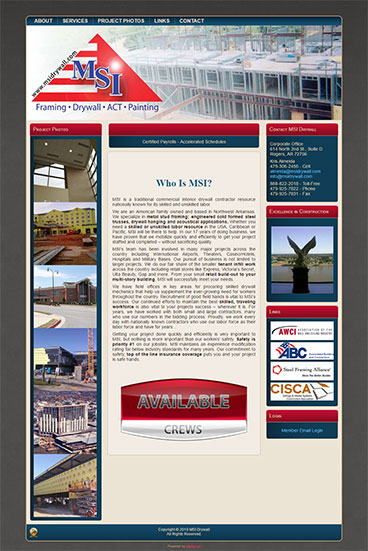
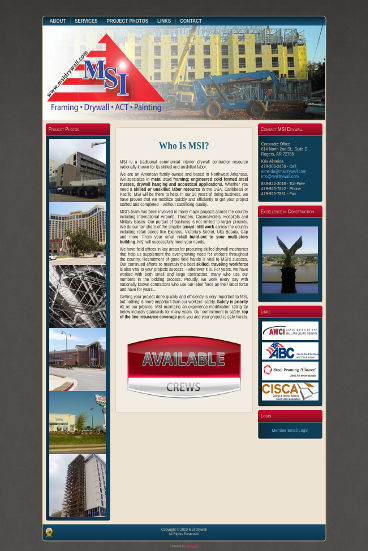
colors

diff --git a/css/main.min.css b/css/main.min.css
@@ -1,4 +1,4 @@
 /*! normalize.css v3.0.3 | MIT License | github.com/necolas/normalize.css */html{font-family:sans-serif;-ms-text-size-adjust:100%;-webkit-text-size-adjust:100%}body{margin:0}article,aside,details,figcaption,figure,footer,header,hgroup,main,menu,nav,section,summary{display:block}audio,canvas,progress,video{display:inline-block;vertical-align:baseline}audio:not([controls]){display:none;height:0}[hidden],template{display:none}a{background-color:transparent}a:active,a:hover{outline:0}abbr[title]{border-bottom:1px dotted}b,strong{font-weight:700}dfn{font-style:italic}h1{font-size:2em;margin:.67em 0}mark{background:#ff0;color:#000}small{font-size:80%}sub,sup{font-size:75%;line-height:0;position:relative;vertical-align:baseline}sup{top:-.5em}sub{bottom:-.25em}img{border:0}svg:not(:root){overflow:hidden}figure{margin:1em 40px}hr{box-sizing:content-box;height:0}pre{overflow:auto}code,kbd,pre,samp{font-family:monospace,monospace;font-size:1em}button,input,optgroup,select,textarea{color:inherit;font:inherit;margin:0}button{overflow:visible}button,select{text-transform:none}button,html input[type=button],input[type=reset],input[type=submit]{-webkit-appearance:button;cursor:pointer}button[disabled],html input[disabled]{cursor:default}button::-moz-focus-inner,input::-moz-focus-inner{border:0;padding:0}input{line-height:normal}input[type=checkbox],input[type=radio]{box-sizing:border-box;padding:0}input[type=number]::-webkit-inner-spin-button,input[type=number]::-webkit-outer-spin-button{height:auto}input[type=search]{-webkit-appearance:textfield;box-sizing:content-box}input[type=search]::-webkit-search-cancel-button,input[type=search]::-webkit-search-decoration{-webkit-appearance:none}fieldset{border:1px solid silver;margin:0 2px;padding:.35em .625em .75em}legend{border:0;padding:0}textarea{overflow:auto}optgroup{font-weight:700}table{border-collapse:collapse;border-spacing:0}td,th{padding:0}html,body,div,span,object,iframe,h1,h2,h3,h4,h5,h6,p,blockquote,pre,abbr,address,cite,code,del,dfn,em,img,ins,kbd,q,samp,small,strong,sub,sup,var,b,i,dl,dt,dd,ol,ul,li,fieldset,form,label,legend,table,caption,tbody,tfoot,thead,tr,th,td,article,aside,canvas,details,figcaption,figure,footer,header,hgroup,menu,nav,section,summary,time,mark,audio,video{margin:0;padding:0;border:0;outline:0;font-size:100%;vertical-align:baseline;background:transparent}ul{list-style:none}a{margin:0;padding:0;font-size:100%;vertical-align:baseline;background:transparent;color:inherit;text-decoration:none}/*!
  *  Font Awesome 4.7.0 by @davegandy - http://fontawesome.io - @fontawesome
  *  License - http://fontawesome.io/license (Font: SIL OFL 1.1, CSS: MIT License)
- */@font-face{font-family:FontAwesome;src:url(../fonts/fontawesome-webfont.eot?v=4.7.0);src:url(../fonts/fontawesome-webfont.eot?#iefix&v=4.7.0) format("embedded-opentype"),url(../fonts/fontawesome-webfont.woff2?v=4.7.0) format("woff2"),url(../fonts/fontawesome-webfont.woff?v=4.7.0) format("woff"),url(../fonts/fontawesome-webfont.ttf?v=4.7.0) format("truetype"),url(../fonts/fontawesome-webfont.svg?v=4.7.0#fontawesomeregular) format("svg")}.fa{display:inline-block;font:normal normal normal 14px/1 FontAwesome;font-size:inherit;text-rendering:auto;-webkit-font-smoothing:antialiased;-moz-osx-font-smoothing:grayscale}.fa-linkedin-square:before{content:"\f08c"}.fa-github-square:before{content:"\f092"}.fa-twitter-square:before{content:"\f081"}.fa-download:before{content:"\f019"}@-webkit-keyframes hvr-icon-hang{0%{-webkit-transform:translateY(6px);transform:translateY(6px)}50%{-webkit-transform:translateY(2px);transform:translateY(2px)}100%{-webkit-transform:translateY(6px);transform:translateY(6px)}}@keyframes hvr-icon-hang{0%{-webkit-transform:translateY(6px);transform:translateY(6px)}50%{-webkit-transform:translateY(2px);transform:translateY(2px)}100%{-webkit-transform:translateY(6px);transform:translateY(6px)}}@-webkit-keyframes hvr-icon-hang-sink{100%{-webkit-transform:translateY(6px);transform:translateY(6px)}}@keyframes hvr-icon-hang-sink{100%{-webkit-transform:translateY(6px);transform:translateY(6px)}}.hvr-icon-hang{display:inline-block;vertical-align:middle;-webkit-transform:perspective(1px) translateZ(0);transform:perspective(1px) translateZ(0);box-shadow:0 0 1px transparent;position:relative;padding-right:2.2em;transition-duration:.7s}.hvr-icon-hang:before{content:"\f019";position:absolute;right:1em;padding:0 1px;font-family:FontAwesome;-webkit-transform:translateZ(0);transform:translateZ(0)}.hvr-icon-hang:hover:before,.hvr-icon-hang:focus:before,.hvr-icon-hang:active:before{-webkit-animation-name:hvr-icon-hang-sink,hvr-icon-hang;animation-name:hvr-icon-hang-sink,hvr-icon-hang;-webkit-animation-duration:.7s,1.5s;animation-duration:.7s,1.5s;-webkit-animation-delay:0s,.7s;animation-delay:0s,.7s;-webkit-animation-timing-function:ease-out,ease-in-out;animation-timing-function:ease-out,ease-in-out;-webkit-animation-iteration-count:1,infinite;animation-iteration-count:1,infinite;-webkit-animation-fill-mode:forwards;animation-fill-mode:forwards;-webkit-animation-direction:normal,alternate;animation-direction:normal,alternate}/*! HTML5 Boilerplate v5.3.0 | MIT License | https://html5boilerplate.com/ */html{color:#d8cfcf;font-size:1em;line-height:1.4;background:#100c0c}::-moz-selection{background:#b3d4fc;text-shadow:none}::selection{background:#b3d4fc;text-shadow:none}hr{display:block;height:1px;border:0;border-top:1px solid #ccc;margin:1em 0;padding:0}audio,canvas,iframe,img,svg,video{vertical-align:middle}fieldset{border:0;margin:0;padding:0}textarea{resize:vertical}.browserupgrade{margin:.2em 0;background:#ccc;color:#000;padding:.2em 0}.desktop-only{display:none}strong{font-weight:700;color:#dcc66d}hr{margin:1.5em}.flex-container{display:-webkit-flex;display:-ms-flexbox;display:flex}.navbar{width:100%;background:#0c0c0c;position:fixed;font-weight:700}.navbar__header{display:-webkit-flex;display:-ms-flexbox;display:flex;-webkit-justify-content:space-between;-ms-flex-pack:justify;justify-content:space-between}.navbar__logo{padding:10px}.navbar__menu{display:-webkit-flex;display:-ms-flexbox;display:flex;-webkit-justify-content:space-around;-ms-flex-pack:distribute;justify-content:space-around;-webkit-flex-grow:1;-ms-flex-positive:1;flex-grow:1;-webkit-flex-direction:column;-ms-flex-direction:column;flex-direction:column;text-align:center;padding-bottom:10px}.navbar__item{padding:10px}.navbar__toggle{padding:10px}.desktop-navbar{background:#0c0c0c;display:-webkit-flex;display:-ms-flexbox;display:flex;-webkit-align-items:center;-ms-flex-align:center;align-items:center;padding:7px 20px;position:fixed;left:0;right:0}.desktop-navbar__header{display:-webkit-flex;display:-ms-flexbox;display:flex;-webkit-flex-direction:column;-ms-flex-direction:column;flex-direction:column}.desktop-navbar__logo{font-weight:700;font-size:18px}.desktop-navbar__tag-line{padding-left:5px}.desktop-navbar__menu{display:-webkit-flex;display:-ms-flexbox;display:flex;-webkit-justify-content:flex-end;-ms-flex-pack:end;justify-content:flex-end;-webkit-flex-grow:1;-ms-flex-positive:1;flex-grow:1}.desktop-navbar__item{margin-left:6vw;font-weight:700;font-size:15px}.desktop-navbar a:hover{text-shadow:.5px 0 0 #aff}.welcome{background-image:url(../img/mobile-bsd-bg.jpg);height:100vh;background-position:right;background-repeat:no-repeat;background-size:cover;text-align:center;color:#eae6e6}@media only screen and (min-width:900px){.welcome{background-image:url(../img/rocket-man.jpg)}}.welcome__wrapper{padding-top:8vh;-webkit-animation-delay:.2s;animation-delay:.2s;-webkit-animation-duration:2s;animation-duration:2s}.welcome__heading{font-size:9.7vw;line-height:1}@media only screen and (min-width:900px){.welcome__heading{font-size:6.8vw}}.welcome__sub-heading{font-size:9vw}@media only screen and (min-width:900px){.welcome__sub-heading{font-size:6vw}}.welcome__ghost-button{display:inline-block;border:2px solid #eae6e6;border-radius:5px;padding:2px;margin:5px 2px;width:35vw;font-size:4vw}@media only screen and (min-width:600px){.welcome__ghost-button{border:3px solid #eae6e6;border-radius:7px;padding:4px;margin:7px 4px}}@media only screen and (min-width:900px){.welcome__ghost-button{border:.3vw solid #eae6e6;border-radius:.5vw;padding:4px 10px;margin:5px 2px;font-size:1.6vw;font-weight:700;width:unset;transition:all .2s ease-out}.welcome__ghost-button:hover{background-color:rgba(208,208,187,.03);transition:all .1s ease-in;-webkit-transform:scale(1.02);-ms-transform:scale(1.02);transform:scale(1.02);-webkit-animation-delay:0s;animation-delay:0s}}.welcome__social-icons a{font-size:8vw;margin:0 3px}@media only screen and (min-width:900px){.welcome__social-icons a{font-size:4vw;margin:0 1vw;transition:all .2s ease-out}.welcome__social-icons a:hover{transition:all .1s ease-in}}.welcome .fa:hover{-webkit-transform:scale(1.04);-ms-transform:scale(1.04);transform:scale(1.04)}@media only screen and (min-width:900px){.what-i-do{display:-webkit-flex;display:-ms-flexbox;display:flex}}.responsive{background:#16171c;text-align:center;-webkit-flex:1 1 0;-ms-flex:1 1 0;flex:1 1 0;margin:15px;border-radius:5px}.responsive__wrapper{padding:12vw 15px;margin:0 auto}@media only screen and (min-width:600px){.responsive__wrapper{max-width:66vw;font-size:2.3vw}}@media only screen and (min-width:900px){.responsive__wrapper{padding:6vw 40px;font-size:1.1em}.responsive__wrapper p{text-align:justify}}.responsive__heading{font-size:9vw;padding-bottom:5px}@media only screen and (min-width:600px){.responsive__heading{font-size:5vw}}@media only screen and (min-width:900px){.responsive__heading{font-size:2.5vw}}.responsive__image-box{margin:0 auto;max-width:75vh}.responsive__image-box img{width:100%}.development{background-color:#292929;text-align:center;-webkit-flex:1 1 0;-ms-flex:1 1 0;flex:1 1 0;margin:15px;border-radius:5px}.development__wrapper{margin:0 auto;padding:12vw 15px}@media only screen and (min-width:600px){.development__wrapper{max-width:66vw;font-size:2.3vw}}@media only screen and (min-width:900px){.development__wrapper{padding:6vw 40px;font-size:1.1em}.development__wrapper p{text-align:justify}}.development__heading{font-size:9vw;padding-bottom:5px}@media only screen and (min-width:600px){.development__heading{font-size:5vw}}@media only screen and (min-width:900px){.development__heading{font-size:2.5vw}}.development__image-box{margin:0 auto;max-width:75vh;padding-bottom:20px}.development__image-box img{width:74%}.code{background-color:#131111;text-align:center;-webkit-flex:1 1 0;-ms-flex:1 1 0;flex:1 1 0;margin:15px;border-radius:5px}.code__wrapper{margin:0 auto;padding:12vw 15px}@media only screen and (min-width:600px){.code__wrapper{max-width:66vw}}@media only screen and (min-width:900px){.code__wrapper{padding:6vw 40px;font-size:1.1em}.code__wrapper p{text-align:justify}}.code__heading{font-size:9vw;padding-bottom:5px}@media only screen and (min-width:600px){.code__heading{font-size:5vw}}@media only screen and (min-width:900px){.code__heading{font-size:2.5vw}}.code__image-box{margin:0 auto;max-width:75vh}.code__image-box img{width:100%}@media only screen and (min-width:900px){.code__image-box img{width:108%}}.code__github-link{font-weight:700}.code__github-link:visited{color:#fff}.code__github-link:hover{text-shadow:.5px 0 0 #fff}.work{text-align:center;background:#1b0e0e;padding-bottom:40px}.work__wrapper{padding:1vh}@media only screen and (min-width:900px){.work__wrapper{padding-top:2vw}}.work__heading{padding:50px 0 20px;text-align:center;font-size:9vw}@media only screen and (min-width:600px){.work__heading{font-size:5vw}}@media only screen and (min-width:900px){.work__heading{padding:50px 0 0;font-size:3vw}}.work__image-box{font-size:.8em;padding:5px;border-radius:5px;background:#292929;text-align:center;margin:0 auto;width:43vh}@media only screen and (min-width:900px){.work__image-box{max-width:25vw;display:inline-block;margin:3vw}}.work__image-box .caption{padding:6px 4px 2px}.work__image-box img{width:100%}.work__large-image-box{width:60vw;padding:20px}.work__large-image-box img{max-height:82vh;padding:0 2vmin}@media only screen and (min-height:620px){.work__large-image-box img{max-height:65vh;padding:0 1vw}}@media only screen and (min-height:790px){.work__large-image-box img{max-height:55vh;padding:0 1vw}}@media only screen and (min-height:965px){.work__large-image-box img{max-height:50vh;padding:0 1vw}}@media only screen and (min-width:1125px){.work__large-image-box img{padding:0 2vw}}@media only screen and (min-width:1200px){.work__large-image-box img{padding:0 2.8vw}}.work__large-text-box{width:40vw;padding:45px 4vw 0 0;text-align:justify}.work__large-text-box h4{text-align:center;padding-bottom:5px}.work__large-text-box p{padding-bottom:40px;font-size:1.1em}.about{background-image:url(../img/skyfield.jpg);background-size:cover;background-position:bottom left;font-size:1.1em}@media only screen and (min-width:900px){.about{background-image:url(../img/skyfield-desktop.jpg)}}.about__wrapper{padding:8vh 20px}@media only screen and (min-width:900px){.about__wrapper{padding:9vw 0 6vw 75px;display:-webkit-flex;display:-ms-flexbox;display:flex}}.about__heading{text-align:center;color:#dcc66d;font-size:9vw}@media only screen and (min-width:600px){.about__heading{font-size:5vw;padding-bottom:5px}}@media only screen and (min-width:900px){.about__heading{font-size:3vw}}.about__biography--left{text-align:justify;max-width:500px;margin:0 auto}@media only screen and (min-width:900px){.about__biography--left{width:50vw}}.about__skills--right{width:50vw;text-align:center}.about__skills--right h2{padding-bottom:5px;font-size:3vw;color:#dcc66d}.about__skills--right ul{padding-bottom:20px}.about__skills--right li{width:40%;display:inline-block}.about__skills--right .button,.about__skills--right .button:visited{display:inline-block;background-color:#0f6f16;padding:12px 22px;border-radius:6px;box-shadow:0 .5px 3px rgba(0,0,0,.4);margin-top:20px;text-align:left;width:207px}.about__skills--right .button:hover,.about__skills--right .button:visited:hover{background:#0e7b17;-webkit-transform:scale(1.007);-ms-transform:scale(1.007);transform:scale(1.007)}.about__skills--right .button:active,.about__skills--right .button:visited:active{box-shadow:0 px px 0 rgba(0,0,0,.24),0 0 0 0 transparent;-webkit-transform:scale(.995);-ms-transform:scale(.995);transform:scale(.995);background-color:#0f6f16}.about__button{background:#0f6f16;display:inline-block;padding:6px 30px;margin-top:20px;color:#fff;text-decoration:none;border-radius:6px;position:relative;cursor:pointer;font-size:1.2em;width:140px}@media only screen and (min-width:900px){.mobile-only{display:none}}@media only screen and (min-width:900px){.desktop-only{display:initial}}.animated{-webkit-animation-duration:1s;animation-duration:1s;-webkit-animation-fill-mode:both;animation-fill-mode:both}@-webkit-keyframes zoomIn{from{opacity:0;-webkit-transform:scale3d(.3,.3,.3);transform:scale3d(.3,.3,.3)}50%{opacity:1}}@keyframes zoomIn{from{opacity:0;-webkit-transform:scale3d(.3,.3,.3);transform:scale3d(.3,.3,.3)}50%{opacity:1}}.zoomIn{-webkit-animation-name:zoomIn;animation-name:zoomIn}@media print{*,*:before,*:after,*:first-letter,*:first-line{background:transparent!important;color:#000!important;box-shadow:none!important;text-shadow:none!important}a,a:visited{text-decoration:underline}a[href]:after{content:" (" attr(href) ")"}abbr[title]:after{content:" (" attr(title) ")"}a[href^="#"]:after,a[href^="javascript:"]:after{content:""}pre,blockquote{border:1px solid #999;page-break-inside:avoid}thead{display:table-header-group}tr,img{page-break-inside:avoid}img{max-width:100%!important}p,h2,h3{orphans:3;widows:3}h2,h3{page-break-after:avoid}}
+ */@font-face{font-family:FontAwesome;src:url(../fonts/fontawesome-webfont.eot?v=4.7.0);src:url(../fonts/fontawesome-webfont.eot?#iefix&v=4.7.0) format("embedded-opentype"),url(../fonts/fontawesome-webfont.woff2?v=4.7.0) format("woff2"),url(../fonts/fontawesome-webfont.woff?v=4.7.0) format("woff"),url(../fonts/fontawesome-webfont.ttf?v=4.7.0) format("truetype"),url(../fonts/fontawesome-webfont.svg?v=4.7.0#fontawesomeregular) format("svg")}.fa{display:inline-block;font:normal normal normal 14px/1 FontAwesome;font-size:inherit;text-rendering:auto;-webkit-font-smoothing:antialiased;-moz-osx-font-smoothing:grayscale}.fa-linkedin-square:before{content:"\f08c"}.fa-github-square:before{content:"\f092"}.fa-twitter-square:before{content:"\f081"}.fa-download:before{content:"\f019"}@-webkit-keyframes hvr-icon-hang{0%{-webkit-transform:translateY(6px);transform:translateY(6px)}50%{-webkit-transform:translateY(2px);transform:translateY(2px)}100%{-webkit-transform:translateY(6px);transform:translateY(6px)}}@keyframes hvr-icon-hang{0%{-webkit-transform:translateY(6px);transform:translateY(6px)}50%{-webkit-transform:translateY(2px);transform:translateY(2px)}100%{-webkit-transform:translateY(6px);transform:translateY(6px)}}@-webkit-keyframes hvr-icon-hang-sink{100%{-webkit-transform:translateY(6px);transform:translateY(6px)}}@keyframes hvr-icon-hang-sink{100%{-webkit-transform:translateY(6px);transform:translateY(6px)}}.hvr-icon-hang{display:inline-block;vertical-align:middle;-webkit-transform:perspective(1px) translateZ(0);transform:perspective(1px) translateZ(0);box-shadow:0 0 1px transparent;position:relative;padding-right:2.2em;transition-duration:.7s}.hvr-icon-hang:before{content:"\f019";position:absolute;right:1em;padding:0 1px;font-family:FontAwesome;-webkit-transform:translateZ(0);transform:translateZ(0)}.hvr-icon-hang:hover:before,.hvr-icon-hang:focus:before,.hvr-icon-hang:active:before{-webkit-animation-name:hvr-icon-hang-sink,hvr-icon-hang;animation-name:hvr-icon-hang-sink,hvr-icon-hang;-webkit-animation-duration:.7s,1.5s;animation-duration:.7s,1.5s;-webkit-animation-delay:0s,.7s;animation-delay:0s,.7s;-webkit-animation-timing-function:ease-out,ease-in-out;animation-timing-function:ease-out,ease-in-out;-webkit-animation-iteration-count:1,infinite;animation-iteration-count:1,infinite;-webkit-animation-fill-mode:forwards;animation-fill-mode:forwards;-webkit-animation-direction:normal,alternate;animation-direction:normal,alternate}/*! HTML5 Boilerplate v5.3.0 | MIT License | https://html5boilerplate.com/ */html{color:#d8cfcf;font-size:1em;line-height:1.4;background:#100c0c}::-moz-selection{background:#b3d4fc;text-shadow:none}::selection{background:#b3d4fc;text-shadow:none}hr{display:block;height:1px;border:0;border-top:1px solid #ccc;margin:1em 0;padding:0}audio,canvas,iframe,img,svg,video{vertical-align:middle}fieldset{border:0;margin:0;padding:0}textarea{resize:vertical}.browserupgrade{margin:.2em 0;background:#ccc;color:#000;padding:.2em 0}.desktop-only{display:none}strong{font-weight:700;color:#dcc66d}hr{margin:1.5em}.flex-container{display:-webkit-flex;display:-ms-flexbox;display:flex}.navbar{width:100%;background:#0c0c0c;position:fixed;font-weight:700}.navbar__header{display:-webkit-flex;display:-ms-flexbox;display:flex;-webkit-justify-content:space-between;-ms-flex-pack:justify;justify-content:space-between}.navbar__logo{padding:10px}.navbar__menu{display:-webkit-flex;display:-ms-flexbox;display:flex;-webkit-justify-content:space-around;-ms-flex-pack:distribute;justify-content:space-around;-webkit-flex-grow:1;-ms-flex-positive:1;flex-grow:1;-webkit-flex-direction:column;-ms-flex-direction:column;flex-direction:column;text-align:center;padding-bottom:10px}.navbar__item{padding:10px}.navbar__toggle{padding:10px}.desktop-navbar{background:#0c0c0c;display:-webkit-flex;display:-ms-flexbox;display:flex;-webkit-align-items:center;-ms-flex-align:center;align-items:center;padding:7px 20px;position:fixed;left:0;right:0}.desktop-navbar__header{display:-webkit-flex;display:-ms-flexbox;display:flex;-webkit-flex-direction:column;-ms-flex-direction:column;flex-direction:column}.desktop-navbar__logo{font-weight:700;font-size:18px}.desktop-navbar__tag-line{padding-left:5px}.desktop-navbar__menu{display:-webkit-flex;display:-ms-flexbox;display:flex;-webkit-justify-content:flex-end;-ms-flex-pack:end;justify-content:flex-end;-webkit-flex-grow:1;-ms-flex-positive:1;flex-grow:1}.desktop-navbar__item{margin-left:6vw;font-weight:700;font-size:15px}.desktop-navbar a:hover{text-shadow:.5px 0 0 #aff}.welcome{background-image:url(../img/rocket-man.jpg);color:#eae6e6;height:100vh;background-position:left;background-repeat:no-repeat;text-align:center;background-size:cover}@media only screen and (min-width:900px){.welcome{background-image:url(../img/rocket-man.jpg);background-position:right}}.welcome__wrapper{padding-top:8vh;-webkit-animation-delay:.2s;animation-delay:.2s;-webkit-animation-duration:2s;animation-duration:2s}.welcome__heading{font-size:9.7vw;line-height:1}@media only screen and (min-width:900px){.welcome__heading{font-size:6.8vw}}.welcome__sub-heading{font-size:9vw}@media only screen and (min-width:900px){.welcome__sub-heading{font-size:6vw}}.welcome__ghost-button{display:inline-block;border:2px solid #eae6e6;border-radius:5px;padding:2px;margin:5px 2px;width:35vw;font-size:4vw}@media only screen and (min-width:600px){.welcome__ghost-button{border:3px solid #eae6e6;border-radius:7px;padding:4px;margin:7px 4px}}@media only screen and (min-width:900px){.welcome__ghost-button{border:.3vw solid #eae6e6;border-radius:.5vw;padding:4px 10px;margin:5px 2px;font-size:1.6vw;font-weight:700;width:unset;transition:all .2s ease-out}.welcome__ghost-button:hover{background-color:rgba(208,208,187,.03);transition:all .1s ease-in;-webkit-transform:scale(1.02);-ms-transform:scale(1.02);transform:scale(1.02);-webkit-animation-delay:0s;animation-delay:0s}}.welcome__social-icons a{font-size:8vw;margin:0 3px}@media only screen and (min-width:900px){.welcome__social-icons a{font-size:4vw;margin:0 1vw;transition:all .2s ease-out}.welcome__social-icons a:hover{transition:all .1s ease-in}}.welcome .fa:hover{-webkit-transform:scale(1.04);-ms-transform:scale(1.04);transform:scale(1.04)}@media only screen and (min-width:900px){.what-i-do{display:-webkit-flex;display:-ms-flexbox;display:flex}}.responsive{background:#16171c;text-align:center;-webkit-flex:1 1 0;-ms-flex:1 1 0;flex:1 1 0;margin:15px;border-radius:5px}.responsive__wrapper{padding:12vw 15px;margin:0 auto}@media only screen and (min-width:600px){.responsive__wrapper{max-width:66vw;font-size:2.3vw}}@media only screen and (min-width:900px){.responsive__wrapper{padding:6vw 40px;font-size:1.1em}.responsive__wrapper p{text-align:justify}}.responsive__heading{font-size:9vw;padding-bottom:5px}@media only screen and (min-width:600px){.responsive__heading{font-size:5vw}}@media only screen and (min-width:900px){.responsive__heading{font-size:2.5vw}}.responsive__image-box{margin:0 auto;max-width:75vh}.responsive__image-box img{width:100%}.development{background-color:#292929;text-align:center;-webkit-flex:1 1 0;-ms-flex:1 1 0;flex:1 1 0;margin:15px;border-radius:5px}.development__wrapper{margin:0 auto;padding:12vw 15px}@media only screen and (min-width:600px){.development__wrapper{max-width:66vw;font-size:2.3vw}}@media only screen and (min-width:900px){.development__wrapper{padding:6vw 40px;font-size:1.1em}.development__wrapper p{text-align:justify}}.development__heading{font-size:9vw;padding-bottom:5px}@media only screen and (min-width:600px){.development__heading{font-size:5vw}}@media only screen and (min-width:900px){.development__heading{font-size:2.5vw}}.development__image-box{margin:0 auto;max-width:75vh;padding-bottom:20px}.development__image-box img{width:74%}.code{background-color:#131111;text-align:center;-webkit-flex:1 1 0;-ms-flex:1 1 0;flex:1 1 0;margin:15px;border-radius:5px}.code__wrapper{margin:0 auto;padding:12vw 15px}@media only screen and (min-width:600px){.code__wrapper{max-width:66vw}}@media only screen and (min-width:900px){.code__wrapper{padding:6vw 40px;font-size:1.1em}.code__wrapper p{text-align:justify}}.code__heading{font-size:9vw;padding-bottom:5px}@media only screen and (min-width:600px){.code__heading{font-size:5vw}}@media only screen and (min-width:900px){.code__heading{font-size:2.5vw}}.code__image-box{margin:0 auto;max-width:75vh}.code__image-box img{width:100%}@media only screen and (min-width:900px){.code__image-box img{width:108%}}.code__github-link{font-weight:700}.code__github-link:visited{color:#fff}.code__github-link:hover{text-shadow:.5px 0 0 #fff}.work{text-align:center;background:#1b0e0e;padding-bottom:40px}.work__wrapper{padding:1vh}@media only screen and (min-width:900px){.work__wrapper{padding-top:2vw}}.work__heading{padding:50px 0 20px;text-align:center;font-size:9vw}@media only screen and (min-width:600px){.work__heading{font-size:5vw}}@media only screen and (min-width:900px){.work__heading{padding:50px 0 0;font-size:3vw}}.work__image-box{font-size:.8em;padding:5px;border-radius:5px;background:#292929;text-align:center;margin:0 auto;width:43vh}@media only screen and (min-width:900px){.work__image-box{max-width:25vw;display:inline-block;margin:3vw}}.work__image-box .caption{padding:6px 4px 2px}.work__image-box img{width:100%}.work__large-image-box{width:60vw;padding:20px}.work__large-image-box img{max-height:82vh;padding:0 2vmin}@media only screen and (min-height:620px){.work__large-image-box img{max-height:65vh;padding:0 1vw}}@media only screen and (min-height:790px){.work__large-image-box img{max-height:55vh;padding:0 1vw}}@media only screen and (min-height:965px){.work__large-image-box img{max-height:50vh;padding:0 1vw}}@media only screen and (min-width:1125px){.work__large-image-box img{padding:0 2vw}}@media only screen and (min-width:1200px){.work__large-image-box img{padding:0 2.8vw}}.work__large-text-box{width:40vw;padding:45px 4vw 0 0;text-align:justify}.work__large-text-box h4{text-align:center;padding-bottom:5px}.work__large-text-box p{padding-bottom:40px;font-size:1.1em}.about{background-image:url(../img/skyfield.jpg);background-size:cover;background-position:bottom left;font-size:1.1em}@media only screen and (min-width:900px){.about{background-image:url(../img/skyfield-desktop.jpg)}}.about__wrapper{padding:8vh 20px}@media only screen and (min-width:900px){.about__wrapper{padding:9vw 0 6vw 75px;display:-webkit-flex;display:-ms-flexbox;display:flex}}.about__heading{text-align:center;color:#dcc66d;font-size:9vw}@media only screen and (min-width:600px){.about__heading{font-size:5vw;padding-bottom:5px}}@media only screen and (min-width:900px){.about__heading{font-size:3vw}}.about__biography--left{text-align:justify;max-width:500px;margin:0 auto}@media only screen and (min-width:900px){.about__biography--left{width:50vw}}.about__skills--right{width:50vw;text-align:center}.about__skills--right h2{padding-bottom:5px;font-size:3vw;color:#dcc66d}.about__skills--right ul{padding-bottom:20px}.about__skills--right li{width:40%;display:inline-block}.about__skills--right .button,.about__skills--right .button:visited{display:inline-block;background-color:#0f6f16;padding:12px 22px;border-radius:6px;box-shadow:0 .5px 3px rgba(0,0,0,.4);margin-top:20px;text-align:left;width:207px}.about__skills--right .button:hover,.about__skills--right .button:visited:hover{background:#0e7b17;-webkit-transform:scale(1.007);-ms-transform:scale(1.007);transform:scale(1.007)}.about__skills--right .button:active,.about__skills--right .button:visited:active{box-shadow:0 px px 0 rgba(0,0,0,.24),0 0 0 0 transparent;-webkit-transform:scale(.995);-ms-transform:scale(.995);transform:scale(.995);background-color:#0f6f16}.about__button{background:#0f6f16;display:inline-block;padding:6px 30px;margin-top:20px;color:#fff;text-decoration:none;border-radius:6px;position:relative;cursor:pointer;font-size:1.2em;width:140px}@media only screen and (min-width:900px){.mobile-only{display:none}}@media only screen and (min-width:900px){.desktop-only{display:initial}}.animated{-webkit-animation-duration:1s;animation-duration:1s;-webkit-animation-fill-mode:both;animation-fill-mode:both}@-webkit-keyframes zoomIn{from{opacity:0;-webkit-transform:scale3d(.3,.3,.3);transform:scale3d(.3,.3,.3)}50%{opacity:1}}@keyframes zoomIn{from{opacity:0;-webkit-transform:scale3d(.3,.3,.3);transform:scale3d(.3,.3,.3)}50%{opacity:1}}.zoomIn{-webkit-animation-name:zoomIn;animation-name:zoomIn}@media print{*,*:before,*:after,*:first-letter,*:first-line{background:transparent!important;color:#000!important;box-shadow:none!important;text-shadow:none!important}a,a:visited{text-decoration:underline}a[href]:after{content:" (" attr(href) ")"}abbr[title]:after{content:" (" attr(title) ")"}a[href^="#"]:after,a[href^="javascript:"]:after{content:""}pre,blockquote{border:1px solid #999;page-break-inside:avoid}thead{display:table-header-group}tr,img{page-break-inside:avoid}img{max-width:100%!important}p,h2,h3{orphans:3;widows:3}h2,h3{page-break-after:avoid}}

diff --git a/sass/_mobile-first.scss b/sass/_mobile-first.scss
@@ -183,15 +183,16 @@ hr{
 /*=======Welcome-Section-Styles)=======*/
 .welcome{
     background-image: $background-welcome-mobile;
-    height: 100vh;
-    background-position: right;
-    background-repeat: no-repeat;
-    background-size: cover;
-    text-align: center;
     color: $welcome-font-color;
+    height: 100vh;
+    background-position: left;
+    background-repeat: no-repeat;
+    text-align: center;
+    background-size: cover;
         @media only screen and (min-width: $breakpoint-desktop) {
         /*desktop*/
             background-image: $background-welcome-desktop;
+            background-position: right;
         }
 
         &__wrapper{

diff --git a/css/main.css b/css/main.css
@@ -750,19 +750,20 @@ hr {
 
 /*=======Welcome-Section-Styles)=======*/
 .welcome {
-  background-image: url("../img/mobile-bsd-bg.jpg");
-  height: 100vh;
-  background-position: right;
-  background-repeat: no-repeat;
-  background-size: cover;
-  text-align: center;
+  background-image: url("../img/rocket-man.jpg");
   color: #eae6e6;
+  height: 100vh;
+  background-position: left;
+  background-repeat: no-repeat;
+  text-align: center;
+  background-size: cover;
 }
 
 @media only screen and (min-width: 900px) {
   .welcome {
     /*desktop*/
     background-image: url("../img/rocket-man.jpg");
+    background-position: right;
   }
 }
 

diff --git a/sass/main.scss b/sass/main.scss
@@ -7,7 +7,7 @@ $mobile-headings-size: 9vw;
 $welcome-font-color: #eae6e6;
 
 //Backgrounds
-$background-welcome-mobile: url("../img/mobile-bsd-bg.jpg");
+$background-welcome-mobile: url("../img/rocket-man.jpg");
 $background-welcome-desktop: url("../img/rocket-man.jpg");
 $background-responsive: #16171c;
 $background-development: #292929;
